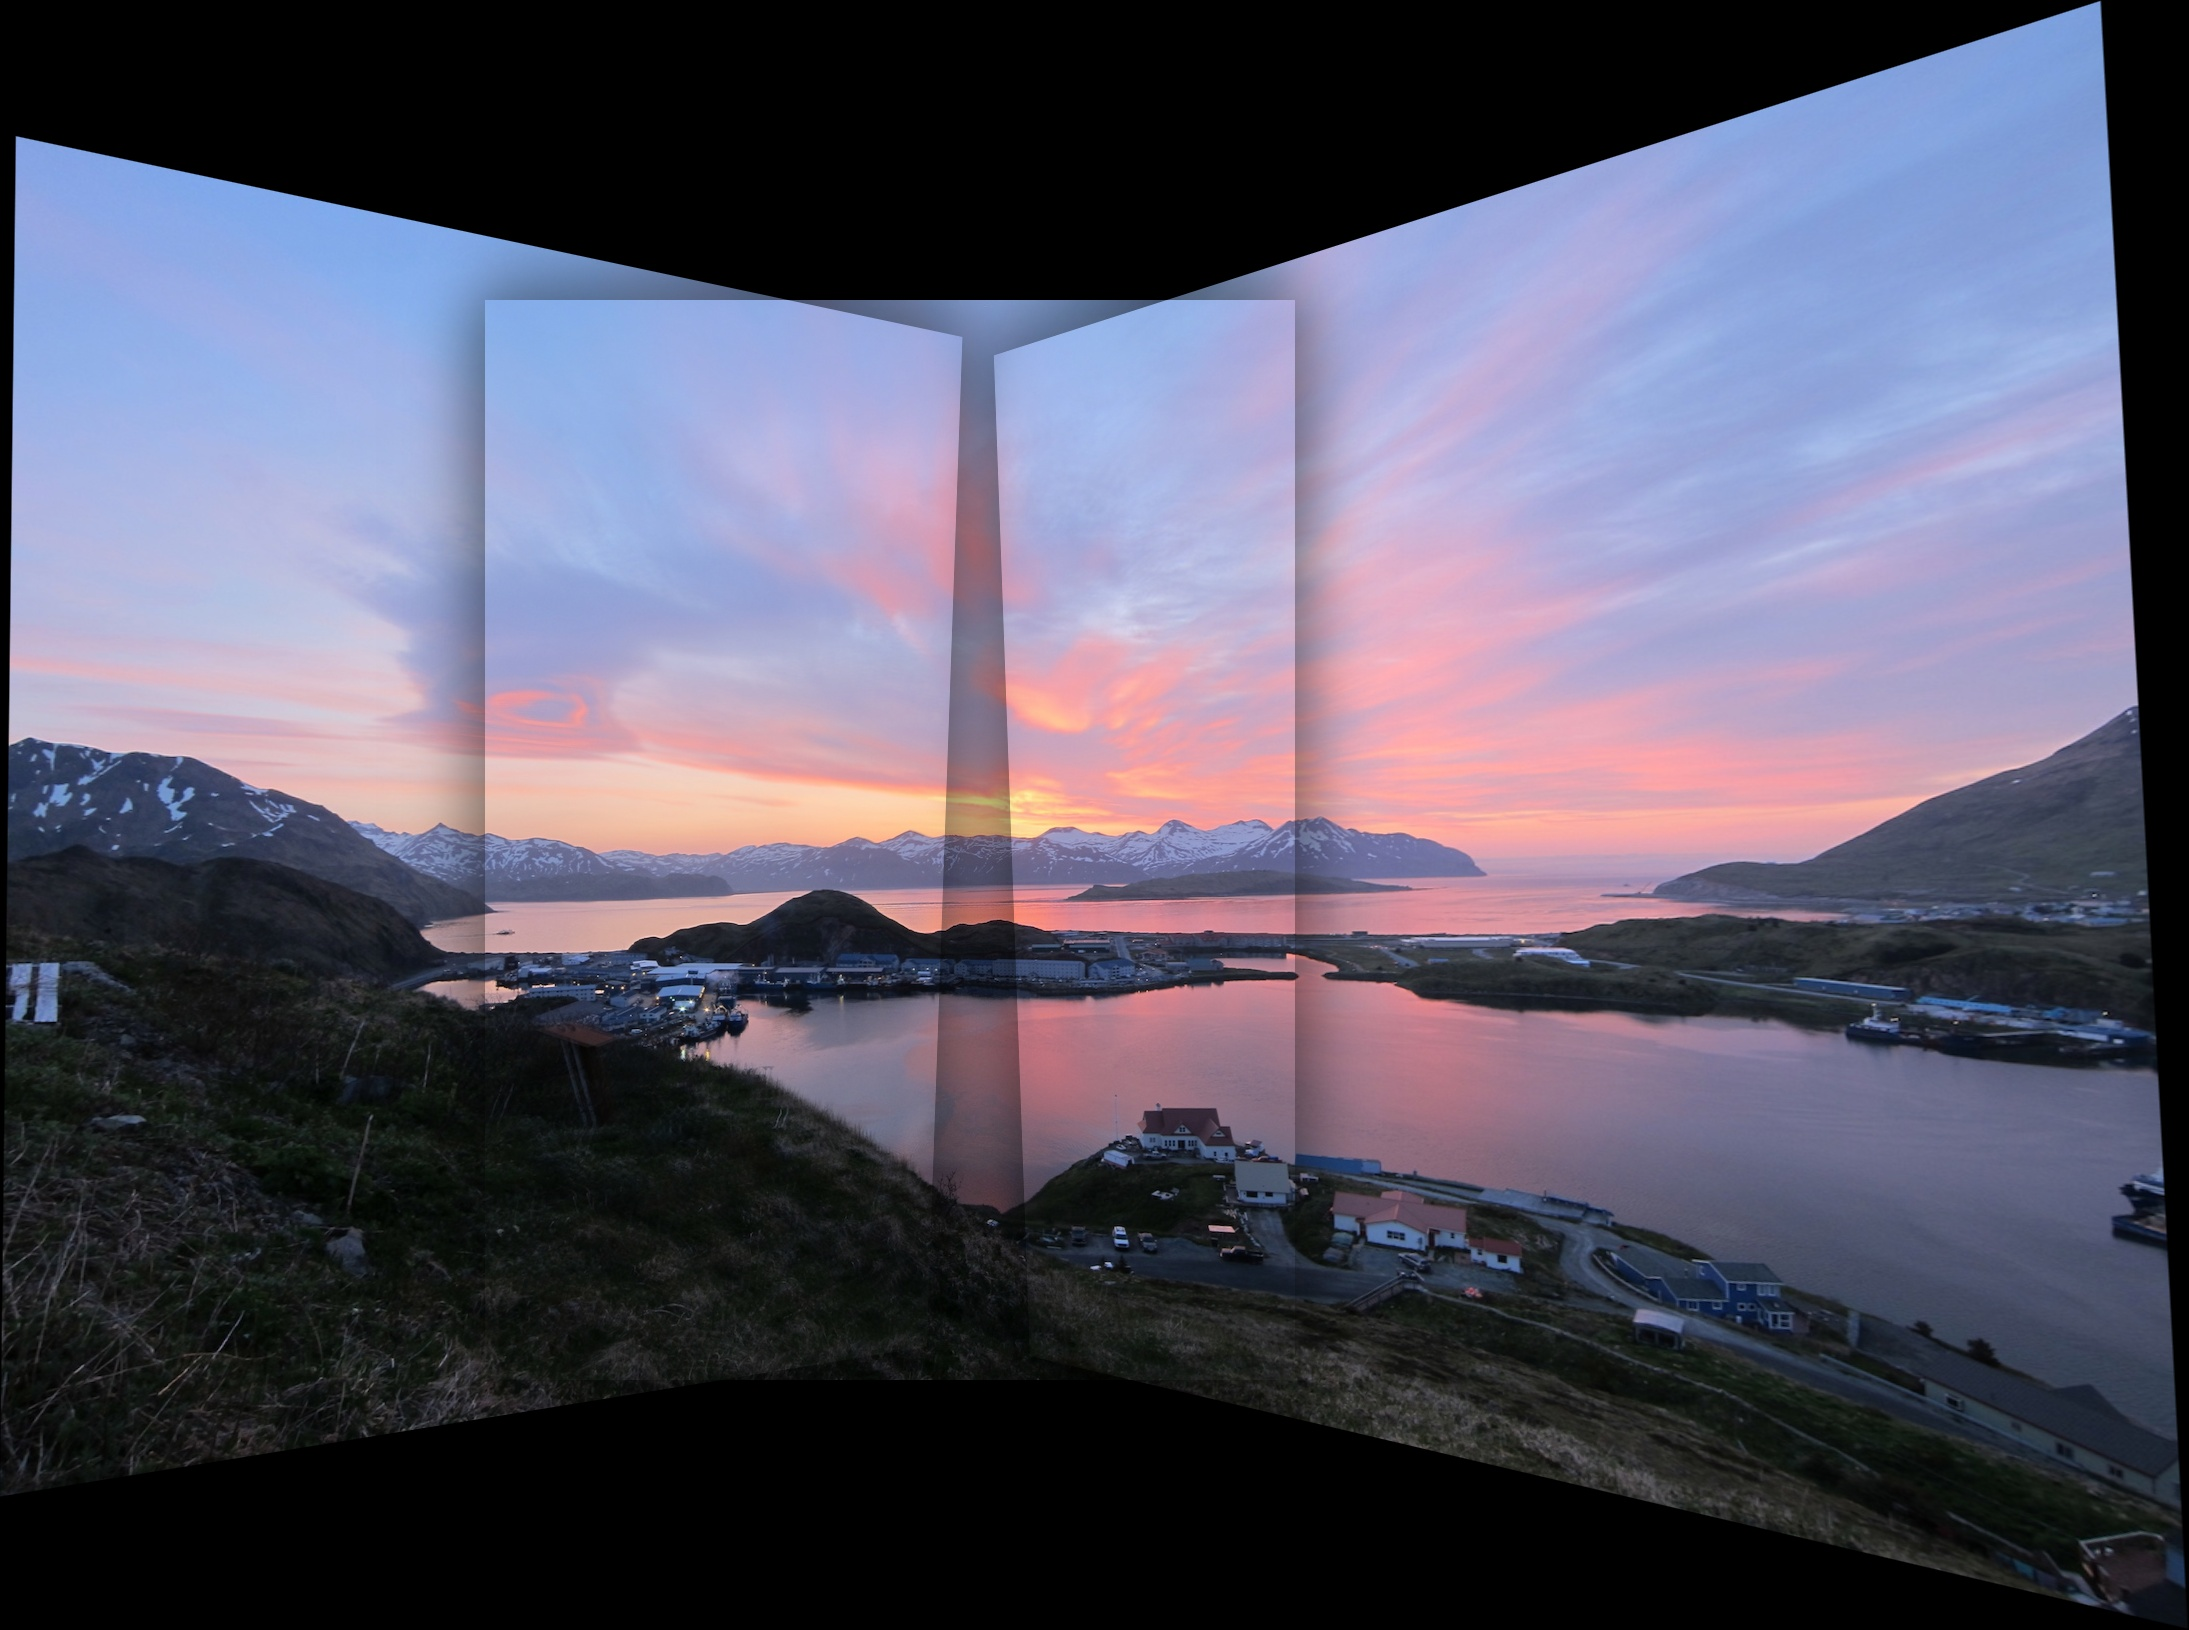
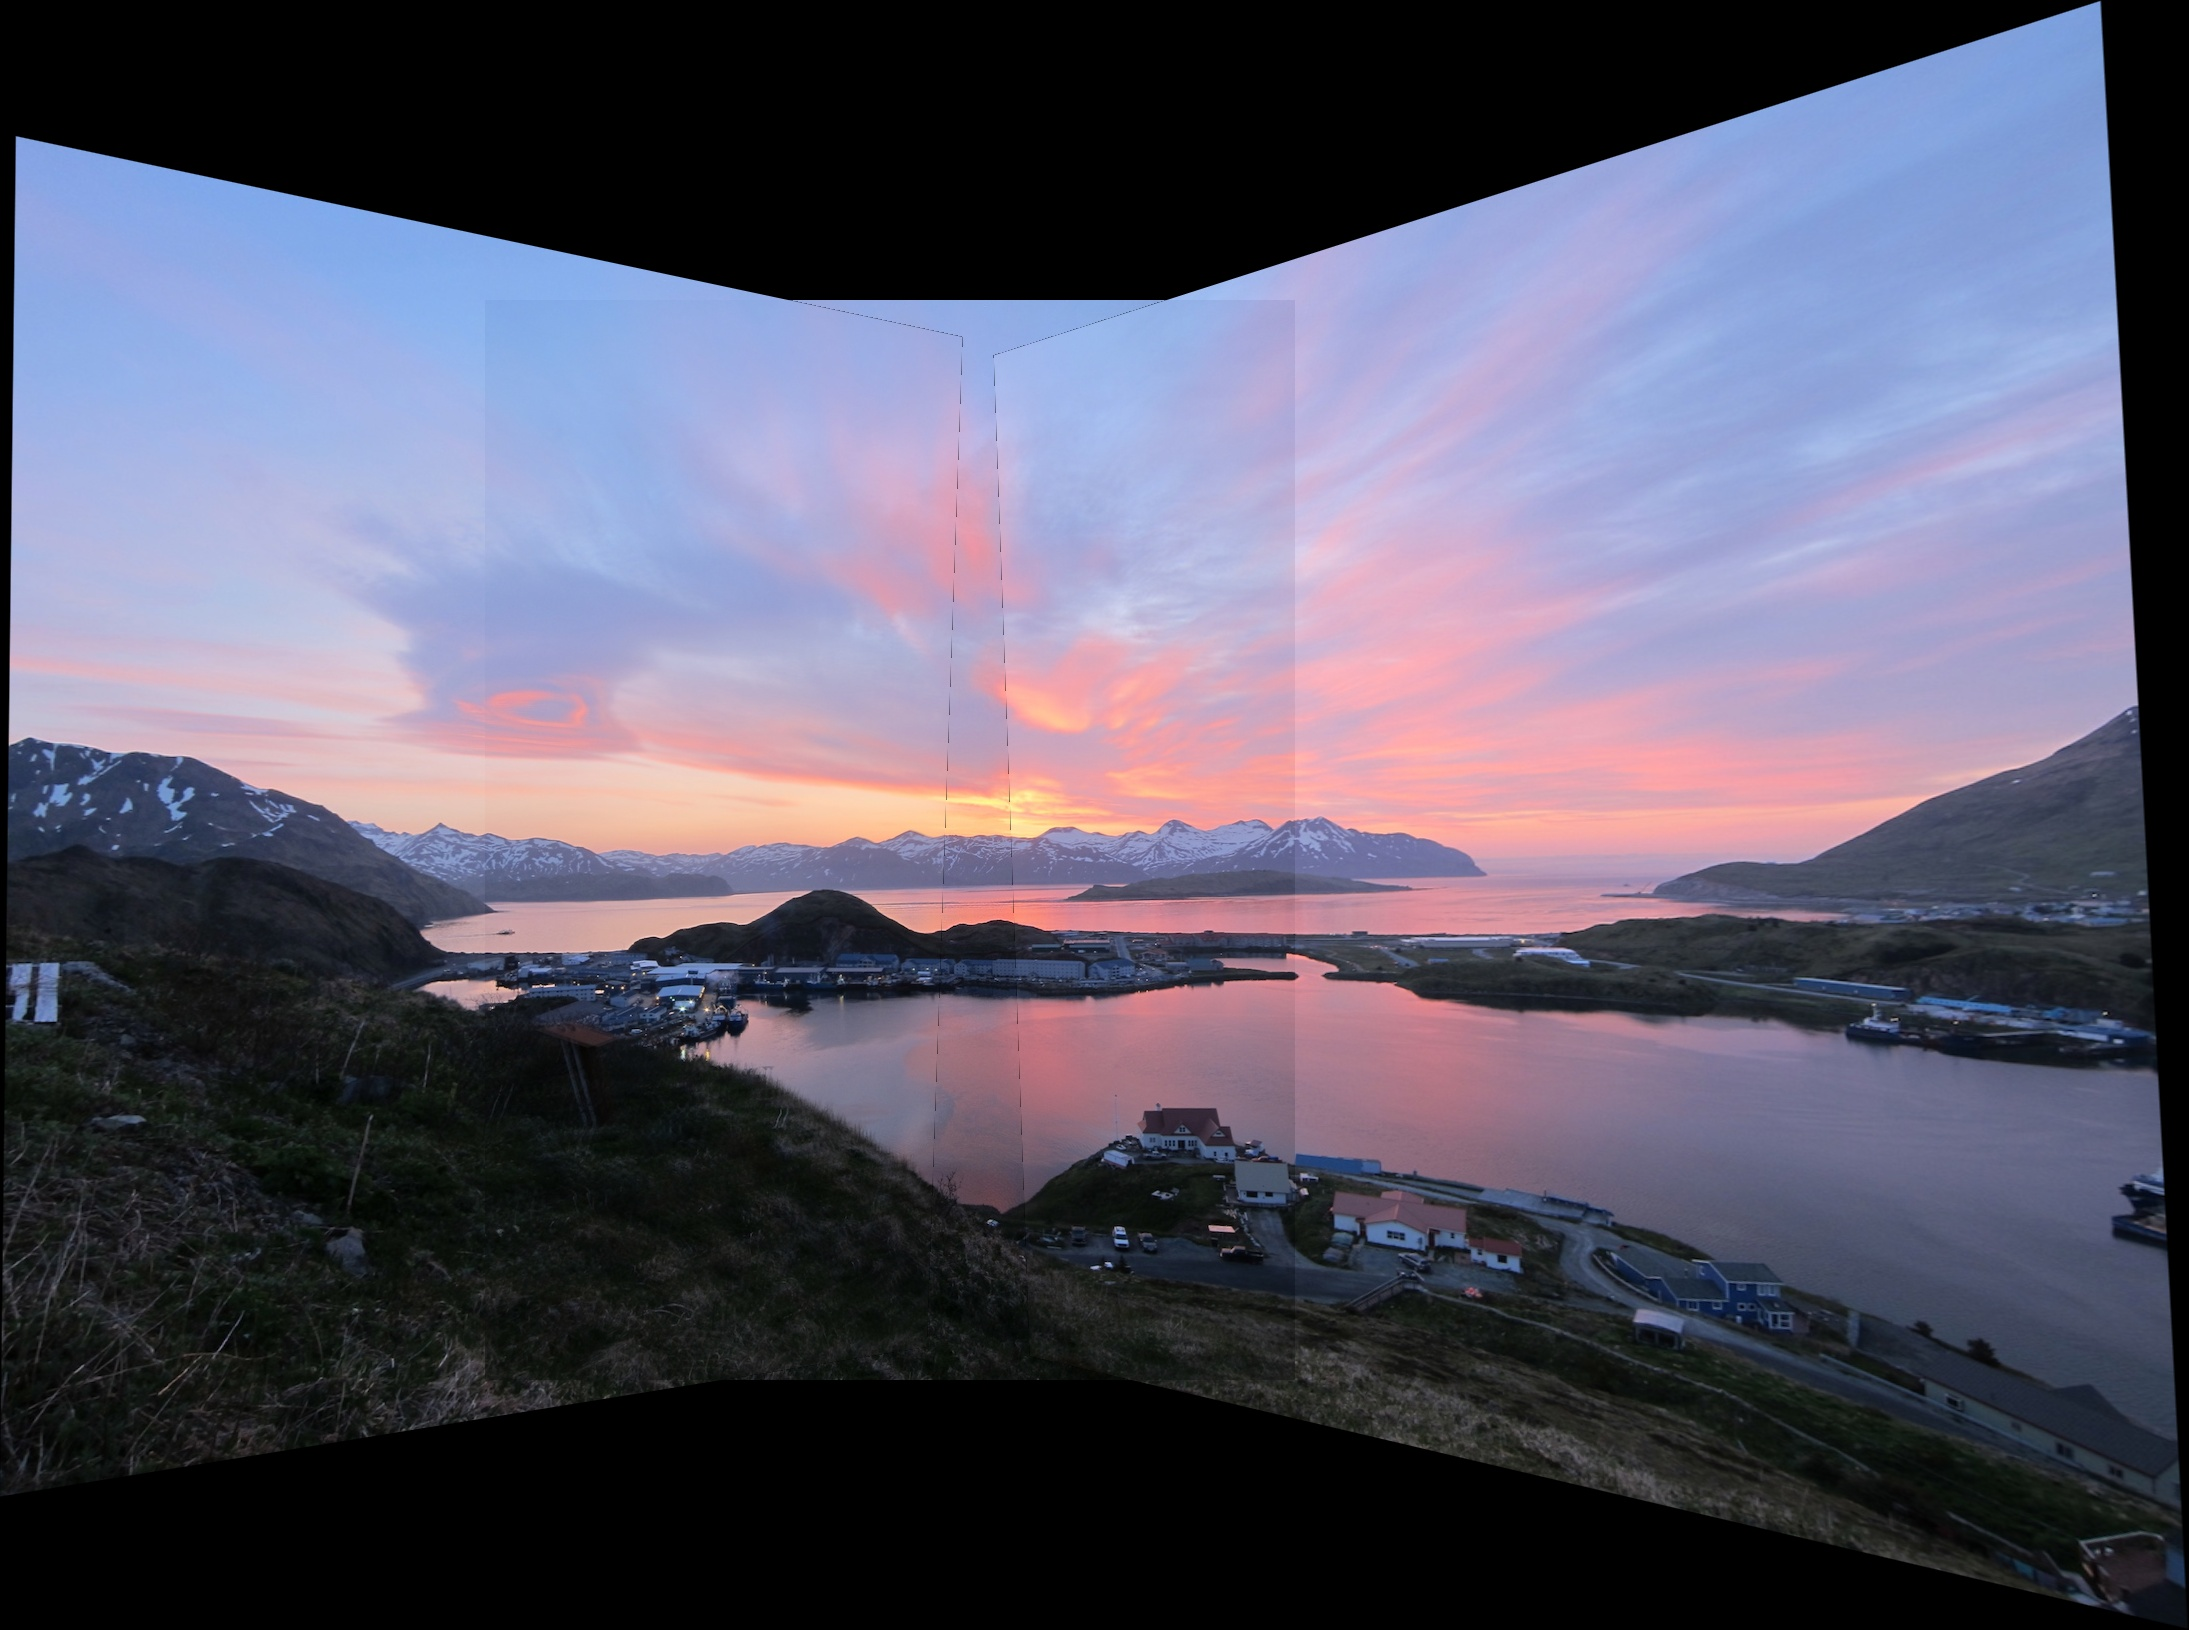
Perf: Improved Blending method

Changed region(s): [[0.1864, 0.1534, 0.3417, 0.6135], [0.3728, 0.184, 0.5281, 0.7362], [0.5281, 0.1534, 0.6213, 0.7362]]

diff --git a/src/panorama_builder/blending.py b/src/panorama_builder/blending.py
@@ -1,86 +1,75 @@
 import numpy as np
 import cv2
 
-def estimate_blur_size(image, smoothing_percent=0.10, min_size=51, max_size=301):
+def single_weights_matrix(shape):
     """
-    Estimate the Gaussian blur kernel size based on a percentage of the image width.
+    Create a weight mask with higher weights in the center and lower on edges.
+    The mask is a 2D tent function that decreases linearly from the center to the edges.
 
     Args:
-        image: The input image (already warped to canvas).
-        smoothing_percent: Fraction of the image width to determine blur size.
-        min_size: Minimum kernel size allowed.
-        max_size: Maximum kernel size allowed.
+        shape: Shape of the image (height, width, channels).
 
     Returns:
-        An odd integer for the blur kernel size.
+        A 2D weight mask with values in [0, 1].
     """
-    # Get the width of the image
-    width = image.shape[1]
-    # Calculate the estimated kernel size based on the width
-    #   and the smoothing percentage
-    estimated = int(smoothing_percent * width)
-    estimated = max(min_size, min(estimated, max_size))
-    # Ensure the kernel size is odd
-    estimated = estimated + 1 if estimated % 2 == 0 else estimated
-    # Return the estimated kernel size
-    return estimated
+    # Create a 2D tent function
+    h, w = shape[:2]
+    x = np.linspace(-1, 1, w)
+    y = np.linspace(-1, 1, h)
+    # Create a meshgrid for 2D tent function
+    xv, yv = np.meshgrid(x, y)
+    # Calculate the weight based on the distance from the center
+    weight = (1 - np.abs(xv)) * (1 - np.abs(yv))  # 2D tent function
+    # Return the weight mask
+    return weight.astype(np.float32)
 
-
-def generate_gaussian_mask(image, smoothing_percent=0.10):
+def blend_images(warped_images):
     """
-    Generate a smooth Gaussian blending mask for a warped image.
+    Blend warped images using center-weighted interpolation inspired by multi-band blending.
 
     Args:
-        image: Warped RGB image.
-        smoothing_percent: Determines blur strength based on image width.
+        warped_images: List of warped images (aligned to same canvas).
 
     Returns:
-        A 2D mask with values in [0, 1], same width and height as the image.
+        Blended panorama image.
     """
-    # Convert the image to grayscale
-    gray = cv2.cvtColor(image, cv2.COLOR_RGB2GRAY)
-    
-    # Generate a binary mask where pixels are greater than 0
-    mask = (gray > 0).astype(np.float32)
-
-    # Compute the Gaussian blur size based on the image width
-    #   and the smoothing percentage
-    blur_size = estimate_blur_size(image, smoothing_percent)
-    blurred = cv2.GaussianBlur(mask, (blur_size, blur_size), 0)
-    # Normalize the blurred mask to the range [0, 1]
-    normalized = blurred / (blurred.max() + 1e-8)
-    
-    # Return the normalized mask
-    return normalized
-
-
-def blend_images(warped_images, masks):
-    """
-    Blend a list of warped images using Gaussian masks.
-
-    Args:
-        warped_images: List of images aligned to the same canvas.
-        masks: List of normalized masks corresponding to each image.
-
-    Returns:
-        The final blended panorama image.
-    """
-    # Initialize the panorama image and total weights
+    print("INFO | Blending images...")
+    # Get the dimensions of the first warped image
     height, width = warped_images[0].shape[:2]
+    # Initialize panorama and weights
     panorama = np.zeros((height, width, 3), dtype=np.float32)
-    total_weights = np.zeros((height, width), dtype=np.float32)
+    weights = np.zeros((height, width, 1), dtype=np.float32)
+    # Loop through each warped image
+    for img in warped_images:
+        # Convert to float32 and normalize
+        gray = cv2.cvtColor(img, cv2.COLOR_RGB2GRAY)
+        mask = (gray > 0).astype(np.float32) # Create a mask for valid pixels
 
-    # Loop through each warped image and its corresponding mask
-    #   to blend them into the panorama
-    for img, mask in zip(warped_images, masks):
-        for c in range(3):  # For each color channel
-            panorama[:, :, c] += img[:, :, c] * mask
-        total_weights += mask
+        # Generate base weights for the current image
+        base_weights = single_weights_matrix(img.shape)
+        base_weights *= mask
 
-    # Normalize the panorama by the total weights to avoid artifacts
-    total_weights = np.clip(total_weights, 1e-8, None)
-    panorama /= total_weights[:, :, np.newaxis]
+        # Normalize the base weights and generate 3-channel weights
+        base_weights_3c = np.repeat(base_weights[:, :, np.newaxis], 3, axis=2)
+        mask_3c = np.repeat(mask[:, :, np.newaxis], 3, axis=2)
 
-    # Return the blended panorama image
-    #   and convert it to uint8 format
+        # Update the weights and panorama using the mask
+        weight_sum = weights + base_weights[:, :, np.newaxis]
+        normalized_weights = np.divide(weights, weight_sum, where=weight_sum != 0)
+
+        # Update the panorama using the normalized weights
+        panorama = np.where(
+            mask_3c == 0,
+            panorama,
+            img * (1 - normalized_weights) + panorama * normalized_weights
+        )
+
+        # Update the weights
+        weights += base_weights[:, :, np.newaxis]
+
+    # Normalize the panorama to [0, 255]
+    panorama = np.clip(panorama, 0, 255)
+
+    print("SUCCESS | Blending completed.")
+    # Convert to uint8
     return panorama.astype(np.uint8)

diff --git a/src/main.py b/src/main.py
@@ -6,7 +6,7 @@ from panorama_builder.feature_extraction import compute_all_features
 from panorama_builder.matching import match_features
 from panorama_builder.homography import compute_chain_homographies
 from panorama_builder.warping import warp_images
-from panorama_builder.blending import generate_gaussian_mask, blend_images
+from panorama_builder.blending import blend_images
 
 def parse_arguments():
     """
@@ -33,13 +33,6 @@ def parse_arguments():
         help="Path to save the output panorama image (default: 'data/output/panorama.jpg')."
     )
 
-    parser.add_argument(
-        "--smoothing",
-        type=float,
-        default=0.10,
-        help="Smoothing percent for blending masks (default: 0.10)."
-    )
-
     return parser.parse_args()
 
 
@@ -55,7 +48,6 @@ def main():
         raise(f"ERROR | '{folder_path}' is not a directory.")
 
     print(f"- Image folder found: {folder_path}")
-    print(f"- Blending smoothing: {args.smoothing * 100:.1f}%")
     print("--- Starting panorama building ---")
     
     # Step 1: Load images
@@ -92,12 +84,9 @@ def main():
 
     # Step 6: Warp all images to base view
     warped_images, _, _ = warp_images(valid_images, valid_homographies)
-    
-    # Step 7: Generate blending masks
-    masks = [generate_gaussian_mask(warped, smoothing_percent=args.smoothing) for warped in warped_images]
 
-    # Step 8: Blend images
-    panorama = blend_images(warped_images, masks)
+    # Step 7: Blend images
+    panorama = blend_images(warped_images)
 
     # Step 9: Save output
     cv2.imwrite(args.output, cv2.cvtColor(panorama, cv2.COLOR_RGB2BGR))
